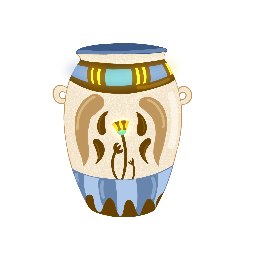
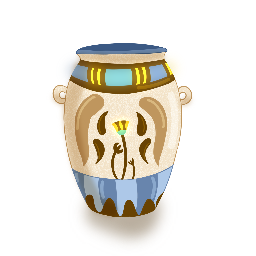
More floor tile types.

Changed region(s): [[0.1875, 0.1875, 0.6562, 0.9688], [0.6875, 0.375, 0.75, 0.4375]]

diff --git a/constants.js b/constants.js
@@ -6,15 +6,53 @@ var numberOfResets = 0;
 var TILE_HEIGHT = 128;
 var TILE_WIDTH = 256;
 var isos = Crafty.diamondIso.init(TILE_WIDTH,TILE_HEIGHT,100,100);
-var current_level = 0;
+var current_level = 2;
 var MAX_STAIRS = 1;
 
 var levels_size = [5,9,13,17,25,37];
+
 var basic_tile_1 = 'Destroyable, 2D, DOM, Color, basic_tile_1';
 var basic_tile_2 = 'Destroyable, 2D, DOM, Color, basic_tile_2';
 var tile_leave1 = 'Destroyable, 2D, DOM, Color, tile_leaves_1';
 var tile_leave2 = 'Destroyable, 2D, DOM, Color, tile_leaves_2';
+var tile_rocks_1 = 'Destroyable, 2D, DOM, Color, tile_rocks_1';
+var tile_rocks_2 = 'Destroyable, 2D, DOM, Color, tile_rocks_2';
+var tile_rocks_3 = 'Destroyable, 2D, DOM, Color, tile_rocks_3';
+var tile_rocks_4 = 'Destroyable, 2D, DOM, Color, tile_rocks_4';
+var tile_rocks_5 = 'Destroyable, 2D, DOM, Color, tile_rocks_5';
+var tile_moss = 'Destroyable, 2D, DOM, Color, tile_moss';
 var tile_cracked = 'Destroyable, 2D, DOM, Color, tile_cracked_1';
+
+// This array is selected for all floor tiles.
+// number of times controls frequency.
+var randomFloor = [
+	basic_tile_1,
+	basic_tile_1,
+	basic_tile_1,
+	basic_tile_1,
+	basic_tile_1,
+	basic_tile_1,
+	basic_tile_2,
+	basic_tile_2,
+	basic_tile_2,
+	basic_tile_2,
+	basic_tile_2,
+	tile_leave1,
+	tile_leave1,
+	tile_leave2,
+	tile_leave2,
+	tile_rocks_1,
+	tile_rocks_2,
+	tile_rocks_3,
+	tile_rocks_4,
+	tile_rocks_5,
+	tile_moss,
+	tile_moss,
+	tile_moss,
+	tile_cracked,
+	tile_cracked
+];
+
 var stairs = 'Destroyable, 2D, DOM, Color, stairs';
 var stairs_up = 'Destroyable, 2D, DOM, Color, stairs_up';
 var pillar1 = 'Destroyable, 2D, DOM, Color, pillar1';
@@ -31,11 +69,7 @@ var min_puzzle_height = 4;
 //Keep 10-19 index values for solid objects, 20+ for interaction walkables
 // TODO code the interaction walkables functionality properly
 var tileMap = {
-		1 : basic_tile_1,
-		2 : basic_tile_2,
-		3 : tile_leave1,
-		4 : tile_leave2,
-		5 : tile_cracked,
+		// all normal floor tiles are 1 and randomly get picked later.
 		8 : stairs,
 		9 : stairs_up,
 		11 : pillar1,

diff --git a/assets.js b/assets.js
@@ -43,6 +43,8 @@ var gameAssets = {
         "tileh": 128,
         "map": {"tile_spiketips": [0, 0]}
       },
+
+      // -- Normal floor tiles -- //
       "assets/images/basic_tile_1.png": {
         "tile" : 256,
         "tileh": 128,
@@ -63,6 +65,38 @@ var gameAssets = {
         "tileh": 128,
         "map": {"tile_leaves_1": [0, 0]}
       },
+      "assets/images/tile_moss1.png": {
+        "tile" : 256,
+        "tileh": 128,
+        "map": {"tile_moss": [0, 0]}
+      },
+      "assets/images/tile_rocks1.png": {
+        "tile" : 256,
+        "tileh": 128,
+        "map": {"tile_rocks_1": [0, 0]}
+      },
+      "assets/images/tile_rocks2.png": {
+        "tile" : 256,
+        "tileh": 128,
+        "map": {"tile_rocks_2": [0, 0]}
+      },
+      "assets/images/tile_rocks3.png": {
+        "tile" : 256,
+        "tileh": 128,
+        "map": {"tile_rocks_3": [0, 0]}
+      },
+      "assets/images/tile_rocks4.png": {
+        "tile" : 256,
+        "tileh": 128,
+        "map": {"tile_rocks_4": [0, 0]}
+      },
+      "assets/images/tile_rocks5.png": {
+        "tile" : 256,
+        "tileh": 128,
+        "map": {"tile_rocks_5": [0, 0]}
+      },
+      // -- END: Normal floor tiles -- //
+
       "assets/images/pillar1.png": {
         "tile" : 256,
         "tileh": 309,
@@ -73,7 +107,7 @@ var gameAssets = {
         "tileh": 256,
         "map": {"chest": [0, 0]}
       },
-      "assets/images/object_vase1_shadow.png": {
+      "assets/images/object_vase1.png": {
         "tile" : 256,
         "tileh": 256,
         "map": {"vase": [0, 0]}

diff --git a/components/controllers/level_generator.js b/components/controllers/level_generator.js
@@ -13,8 +13,7 @@ Crafty.c("LevelGenerator", {
 		    for (var lvl_x = 0; lvl_x < levels_size[level]; lvl_x++) {
 				var x_tiles = [];
 				for (var lvl_y = 0; lvl_y < levels_size[level]; lvl_y++) {
-						var key = Math.ceil(Math.random() * (4.1)); //first X tiles you can walk on
-						x_tiles.push(key);
+						x_tiles.push(1); // 1 will later randomly select tiles for normal floor.
 				}
 				temp_tiles_map.push(x_tiles);
 			};

diff --git a/components/controllers/load_level.js b/components/controllers/load_level.js
@@ -59,7 +59,13 @@ Crafty.c("LoadLevel", {
 
     placeGroundTile : function (level, l, c, r) {
     	var mapPosition = map[level][l][c][r];
+
 		var tile = tileMap[mapPosition];
+		// ground tiles are all 1's now, so randomly select time to show.
+		if(mapPosition === 1) {
+			var index = Math.floor(Math.random()*randomFloor.length);
+			tile = randomFloor[index];
+		}
 
 		var tileNumber = mapPosition;
 		var linkingElement = null;

diff --git a/scenes/game.js b/scenes/game.js
@@ -9,8 +9,7 @@ Crafty.defineScene("Game", function() {
 
 	var player = Crafty.e('Player');
 	makeCameraTrackEntity(player, 75);
-	Crafty.viewport.scale(0.5);
-
+	Crafty.viewport.scale(0.4);
 
 	map = Crafty.e("LevelGenerator").generate_levels();
 	Crafty.e("LoadLevel").loadLevel(player, current_level, map, isos);
